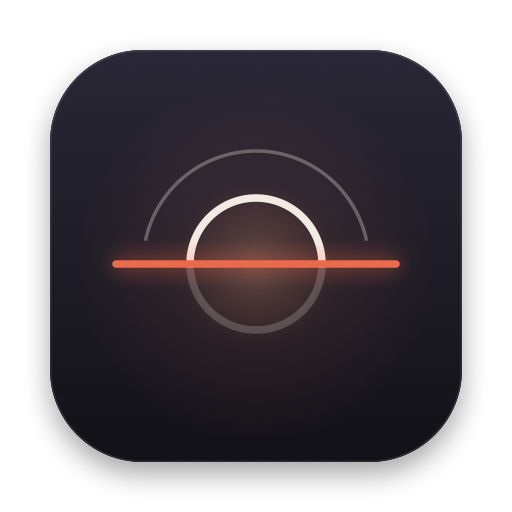
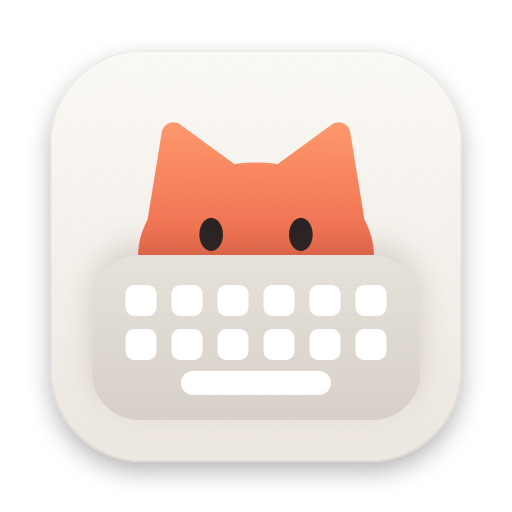
Luma 拼音 0.6.1: a cat peeking over a keyboard
- App icon: a vermilion cat behind a soft keyboard tray, showing only its
  ears, crown and two eyes, on warm paper.
- Menu bar: the same big-eared cat as a solid template silhouette with
  round eyes knocked out.
- The ears are triangles grown outward by a round stroke, built at the
  final scale so the path operations stay clean.
- README icon updated.
- Version 0.6.1.

diff --git a/scripts/make_icon.swift b/scripts/make_icon.swift
@@ -1,4 +1,4 @@
-// Draws Luma's line-art icons: "a line of light", concentric arcs rising over a single rule.
+// Draws Luma's icons: a little cat peeking over a keyboard, and its silhouette for the menu bar.
 //   swift scripts/make_icon.swift <out-dir> [--preview]
 // Writes <out-dir>/AppIcon.iconset (for iconutil) and <out-dir>/menu.pdf (menu-bar template).
 import CoreGraphics
@@ -15,32 +15,34 @@ func rgb(_ hex: UInt32, _ a: CGFloat = 1) -> CGColor {
             blue: CGFloat(hex & 0xff) / 255, alpha: a)
 }
 
-func arc(_ ctx: CGContext, center: CGPoint, radius: CGFloat, width: CGFloat, color: CGColor, inset: CGFloat) {
-    ctx.setStrokeColor(color)
-    ctx.setLineWidth(width)
-    ctx.setLineCap(.round)
-    ctx.addArc(center: center, radius: radius, startAngle: inset, endAngle: .pi - inset, clockwise: false)
-    ctx.strokePath()
+let space = CGColorSpace(name: CGColorSpace.sRGB)!
+
+func ellipse(_ c: CGPoint, _ rx: CGFloat, _ ry: CGFloat) -> CGPath {
+    CGPath(ellipseIn: CGRect(x: c.x - rx, y: c.y - ry, width: rx * 2, height: ry * 2), transform: nil)
 }
 
-func ring(_ ctx: CGContext, center: CGPoint, radius: CGFloat, width: CGFloat, color: CGColor, lower: Bool) {
-    ctx.setStrokeColor(color)
-    ctx.setLineWidth(width)
-    ctx.setLineCap(.butt)
-    ctx.addArc(center: center, radius: radius, startAngle: lower ? .pi : 0, endAngle: lower ? 2 * .pi : .pi, clockwise: false)
-    ctx.strokePath()
-}
+// MARK: The cat
+//
+// Drawn in a unit box (x -1...1, y up), placed at `c` and scaled by `s`: a wide oval head and two
+// big upright ears. Each ear is a triangle grown outward by a round stroke of radius `earGrow`,
+// which makes the ears fuller and their tips soft. `earBase` is where the outer edge of each ear
+// meets the head; pulling it in keeps the grown ear from bulging past the head at large sizes.
 
-func line(_ ctx: CGContext, y: CGFloat, from x0: CGFloat, to x1: CGFloat, width: CGFloat, color: CGColor) {
-    ctx.setStrokeColor(color)
-    ctx.setLineWidth(width)
-    ctx.setLineCap(.round)
-    ctx.move(to: CGPoint(x: x0, y: y))
-    ctx.addLine(to: CGPoint(x: x1, y: y))
-    ctx.strokePath()
+func catHead(_ c: CGPoint, _ s: CGFloat, earGrow: CGFloat, earBase: CGPoint = CGPoint(x: 0.86, y: 0.12)) -> CGPath {
+    func p(_ x: CGFloat, _ y: CGFloat) -> CGPoint { CGPoint(x: c.x + x * s, y: c.y + y * s) }
+    var cat = ellipse(p(0, -0.16), s, 0.80 * s)
+    for side: CGFloat in [-1, 1] {
+        let ear = CGMutablePath()
+        ear.addLines(between: [p(side * earBase.x, earBase.y), p(side * 0.70, 0.88), p(side * 0.18, 0.50)])
+        ear.closeSubpath()
+        cat = cat.union(ear.union(ear.copy(strokingWithWidth: earGrow * 2 * s, lineCap: .round, lineJoin: .round, miterLimit: 1)))
+    }
+    return cat
 }
 
 // MARK: App icon (drawn on a 1024 canvas, scaled for each size)
+//
+// The cat peeks over the top of a keyboard: only its ears, crown and eyes show above the tray.
 
 func drawAppIcon(_ ctx: CGContext, size: CGFloat) {
     let k = size / 1024
@@ -50,40 +52,64 @@ func drawAppIcon(_ ctx: CGContext, size: CGFloat) {
     let body = CGRect(x: 100, y: 100, width: 824, height: 824)
     let shape = CGPath(roundedRect: body, cornerWidth: 185, cornerHeight: 185, transform: nil)
     ctx.saveGState()
-    ctx.setShadow(offset: CGSize(width: 0, height: -12), blur: 28, color: rgb(0x000000, 0.35))
+    ctx.setShadow(offset: CGSize(width: 0, height: -10), blur: 24, color: rgb(0x000000, 0.28))
     ctx.addPath(shape)
-    ctx.setFillColor(rgb(0x15141B))
+    ctx.setFillColor(rgb(0xF4F1EC))
     ctx.fillPath()
     ctx.restoreGState()
 
     ctx.saveGState()
     ctx.addPath(shape)
     ctx.clip()
-    let space = CGColorSpace(name: CGColorSpace.sRGB)!
-    let base = CGGradient(colorsSpace: space, colors: [rgb(0x2A2736), rgb(0x121117)] as CFArray, locations: [0, 1])!
-    ctx.drawLinearGradient(base, start: CGPoint(x: 512, y: 924), end: CGPoint(x: 512, y: 100), options: [])
+    let paper = CGGradient(colorsSpace: space, colors: [rgb(0xFBF9F5), rgb(0xECE7E0)] as CFArray, locations: [0, 1])!
+    ctx.drawLinearGradient(paper, start: CGPoint(x: 512, y: 924), end: CGPoint(x: 512, y: 100), options: [])
 
-    let horizon: CGFloat = 496
-    let center = CGPoint(x: 512, y: horizon)
-    let glow = CGGradient(colorsSpace: space, colors: [rgb(0xFFB48A, 0.30), rgb(0xFF8A6A, 0.08), rgb(0xFF8A6A, 0)] as CFArray,
-                          locations: [0, 0.45, 1])!
-    ctx.drawRadialGradient(glow, startCenter: center, startRadius: 0, endCenter: center, endRadius: 360, options: [])
-
-    // A ring of light cut by the rule: bright above, its reflection faint below.
-    let warm: UInt32 = 0xFBF3EA
-    arc(ctx, center: center, radius: 132, width: 15, color: rgb(warm, 0.96), inset: 0)
-    ring(ctx, center: center, radius: 132, width: 15, color: rgb(warm, 0.20), lower: true)
-    arc(ctx, center: center, radius: 226, width: 7, color: rgb(warm, 0.30), inset: 0.22)
-
-    // The rule: vermilion, with a little bloom.
+    // The cat, in vermilion, behind the keyboard.
+    let c = CGPoint(x: 512, y: 548), s: CGFloat = 236
+    let cat = catHead(c, s, earGrow: 0.10, earBase: CGPoint(x: 0.82, y: 0.14))
     ctx.saveGState()
-    ctx.setShadow(offset: .zero, blur: 22, color: rgb(0xFF6A4A, 0.75))
-    line(ctx, y: horizon, from: 232, to: 792, width: 15, color: rgb(0xEC6A4C))
+    ctx.addPath(cat)
+    ctx.clip()
+    let fur = CGGradient(colorsSpace: space, colors: [rgb(0xFF9A6E), rgb(0xE85E44)] as CFArray, locations: [0, 1])!
+    ctx.drawLinearGradient(fur, start: CGPoint(x: 512, y: 790), end: CGPoint(x: 512, y: 440), options: [])
+    ctx.restoreGState()
+    func p(_ x: CGFloat, _ y: CGFloat) -> CGPoint { CGPoint(x: c.x + x * s, y: c.y + y * s) }
+    ctx.addPath(ellipse(p(-0.38, 0.03), 0.10 * s, 0.14 * s))
+    ctx.addPath(ellipse(p(0.38, 0.03), 0.10 * s, 0.14 * s))
+    ctx.setFillColor(rgb(0x2A2224))
+    ctx.fillPath()
+
+    // The keyboard: a soft tray, lifted off the cat by a faint shadow, two rows of keys and a space bar.
+    let trayRect = CGRect(x: 184, y: 184, width: 656, height: 330)
+    let tray = CGPath(roundedRect: trayRect, cornerWidth: 96, cornerHeight: 96, transform: nil)
+    ctx.saveGState()
+    ctx.setShadow(offset: CGSize(width: 0, height: 10), blur: 30, color: rgb(0x5A3A2A, 0.18))
+    ctx.addPath(tray)
+    ctx.setFillColor(rgb(0xDDD8D0))
+    ctx.fillPath()
+    ctx.restoreGState()
+    ctx.saveGState()
+    ctx.addPath(tray)
+    ctx.clip()
+    let trayShade = CGGradient(colorsSpace: space, colors: [rgb(0xE6E1DA), rgb(0xD6D0C8)] as CFArray, locations: [0, 1])!
+    ctx.drawLinearGradient(trayShade, start: CGPoint(x: 512, y: trayRect.maxY), end: CGPoint(x: 512, y: trayRect.minY), options: [])
     ctx.restoreGState()
 
-    // A hairline of light along the top edge.
+    let key: CGFloat = 62, gap: CGFloat = 30
+    let left = 512 - (key * 6 + gap * 5) / 2
+    for row in 0..<2 {
+        for col in 0..<6 {
+            let r = CGRect(x: left + CGFloat(col) * (key + gap), y: 392 - CGFloat(row) * (key + 26), width: key, height: key)
+            ctx.addPath(CGPath(roundedRect: r, cornerWidth: 18, cornerHeight: 18, transform: nil))
+        }
+    }
+    ctx.addPath(CGPath(roundedRect: CGRect(x: 362, y: 234, width: 300, height: 48), cornerWidth: 24, cornerHeight: 24, transform: nil))
+    ctx.setFillColor(rgb(0xFFFFFF))
+    ctx.fillPath()
+
+    // A hairline along the edge so the light icon holds its shape on a white desktop.
     ctx.addPath(CGPath(roundedRect: body.insetBy(dx: 1.5, dy: 1.5), cornerWidth: 184, cornerHeight: 184, transform: nil))
-    ctx.setStrokeColor(rgb(0xFFFFFF, 0.10))
+    ctx.setStrokeColor(rgb(0x000000, 0.06))
     ctx.setLineWidth(3)
     ctx.strokePath()
     ctx.restoreGState()
@@ -91,8 +117,7 @@ func drawAppIcon(_ ctx: CGContext, size: CGFloat) {
 
 func writePNG(size: Int, to url: URL, draw: (CGContext, CGFloat) -> Void) {
     let ctx = CGContext(data: nil, width: size, height: size, bitsPerComponent: 8, bytesPerRow: 0,
-                        space: CGColorSpace(name: CGColorSpace.sRGB)!,
-                        bitmapInfo: CGImageAlphaInfo.premultipliedLast.rawValue)!
+                        space: space, bitmapInfo: CGImageAlphaInfo.premultipliedLast.rawValue)!
     draw(ctx, CGFloat(size))
     let dest = CGImageDestinationCreateWithURL(url as CFURL, UTType.png.identifier as CFString, 1, nil)!
     CGImageDestinationAddImage(dest, ctx.makeImage()!, nil)
@@ -108,26 +133,15 @@ for base in [16, 32, 128, 256, 512] {
     }
 }
 
-// MARK: Menu-bar template (16 x 16 pt, strokes only so it tints cleanly)
+// MARK: Menu-bar template (16 x 16 pt, one solid shape so it tints cleanly)
 //
-// Laid out on the 2x pixel grid so stroke edges land on whole pixels. The ring and its reflection
-// share one outer edge and stop short of the rule, leaving a clear hairline either side of it.
+// The same cat as a silhouette with round eyes knocked out.
 
 func drawMenuIcon(_ ctx: CGContext, color: CGColor) {
-    let center = CGPoint(x: 8, y: 6.75)
-    let rule: CGFloat = 1.5, clearance: CGFloat = 0.5
-
-    ctx.saveGState()
-    let band = CGRect(x: 0, y: center.y - rule / 2 - clearance, width: 16, height: rule + 2 * clearance)
-    ctx.addRect(CGRect(x: 0, y: 0, width: 16, height: 16))
-    ctx.addRect(band)
-    ctx.clip(using: .evenOdd)  // everything but the band around the rule
-    ring(ctx, center: center, radius: 4, width: 1.5, color: color, lower: false)
-    ring(ctx, center: center, radius: 4.25, width: 1, color: color.copy(alpha: 0.38)!, lower: true)
-    ctx.restoreGState()
-
-    arc(ctx, center: center, radius: 6.75, width: 1, color: color.copy(alpha: 0.55)!, inset: 0.42)
-    line(ctx, y: center.y, from: 2, to: 14, width: rule, color: color)
+    let eyes = ellipse(CGPoint(x: 5.2, y: 7.2), 0.85, 1.15).union(ellipse(CGPoint(x: 10.8, y: 7.2), 0.85, 1.15))
+    ctx.addPath(catHead(CGPoint(x: 8, y: 8.2), 7.2, earGrow: 0.12).subtracting(eyes))
+    ctx.setFillColor(color)
+    ctx.fillPath()
 }
 
 var box = CGRect(x: 0, y: 0, width: 16, height: 16)
@@ -144,8 +158,7 @@ if preview {
     // Menu icon at 2x on light and dark menu bars, plus an 8x enlargement.
     let w = 520, h = 200
     let ctx = CGContext(data: nil, width: w, height: h, bitsPerComponent: 8, bytesPerRow: 0,
-                        space: CGColorSpace(name: CGColorSpace.sRGB)!,
-                        bitmapInfo: CGImageAlphaInfo.premultipliedLast.rawValue)!
+                        space: space, bitmapInfo: CGImageAlphaInfo.premultipliedLast.rawValue)!
     ctx.setFillColor(rgb(0xEDEBEF)); ctx.fill(CGRect(x: 0, y: 100, width: 160, height: 100))
     ctx.setFillColor(rgb(0x2B2A30)); ctx.fill(CGRect(x: 0, y: 0, width: 160, height: 100))
     ctx.setFillColor(rgb(0xFFFFFF)); ctx.fill(CGRect(x: 160, y: 0, width: 360, height: 200))
